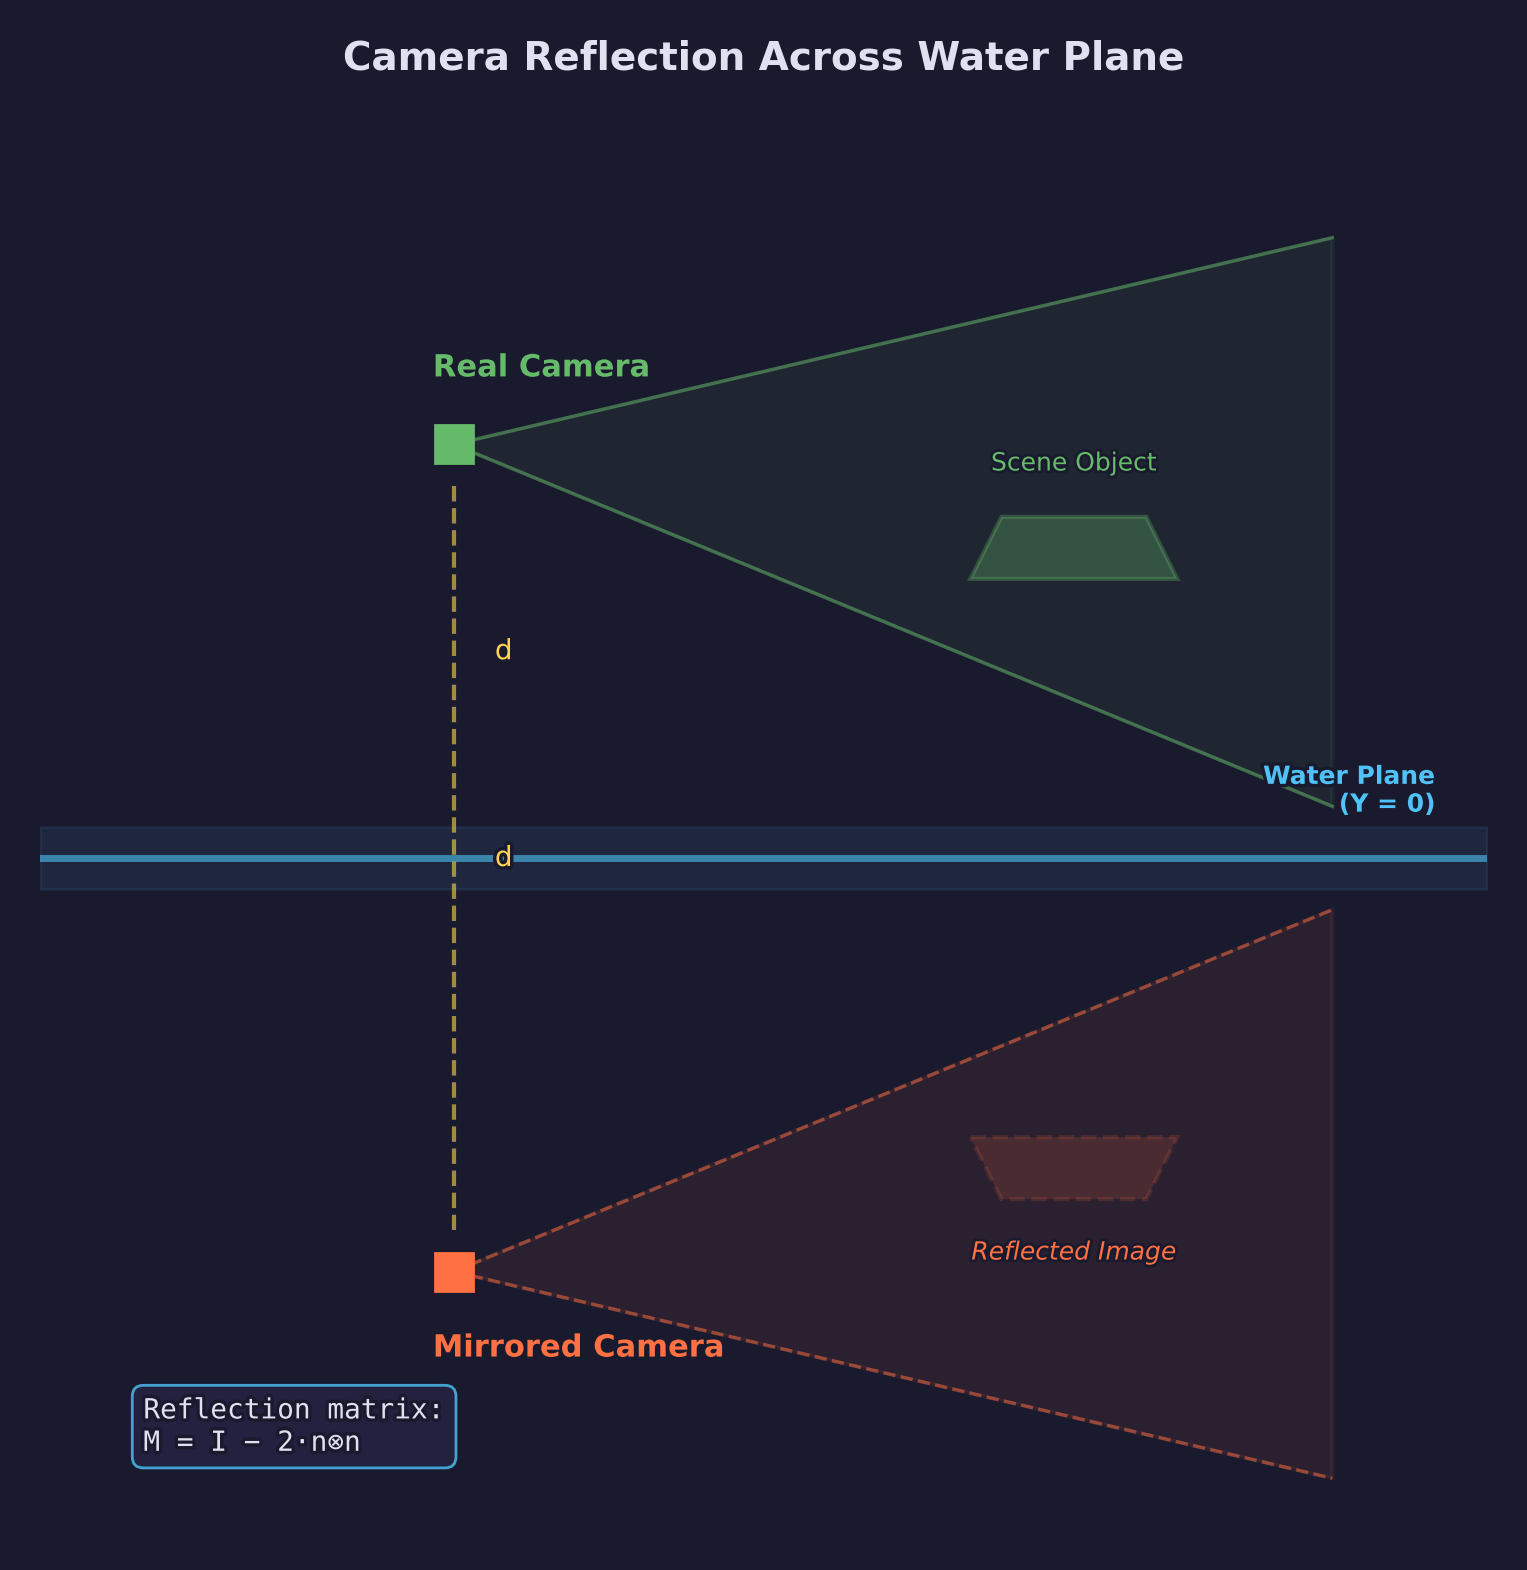
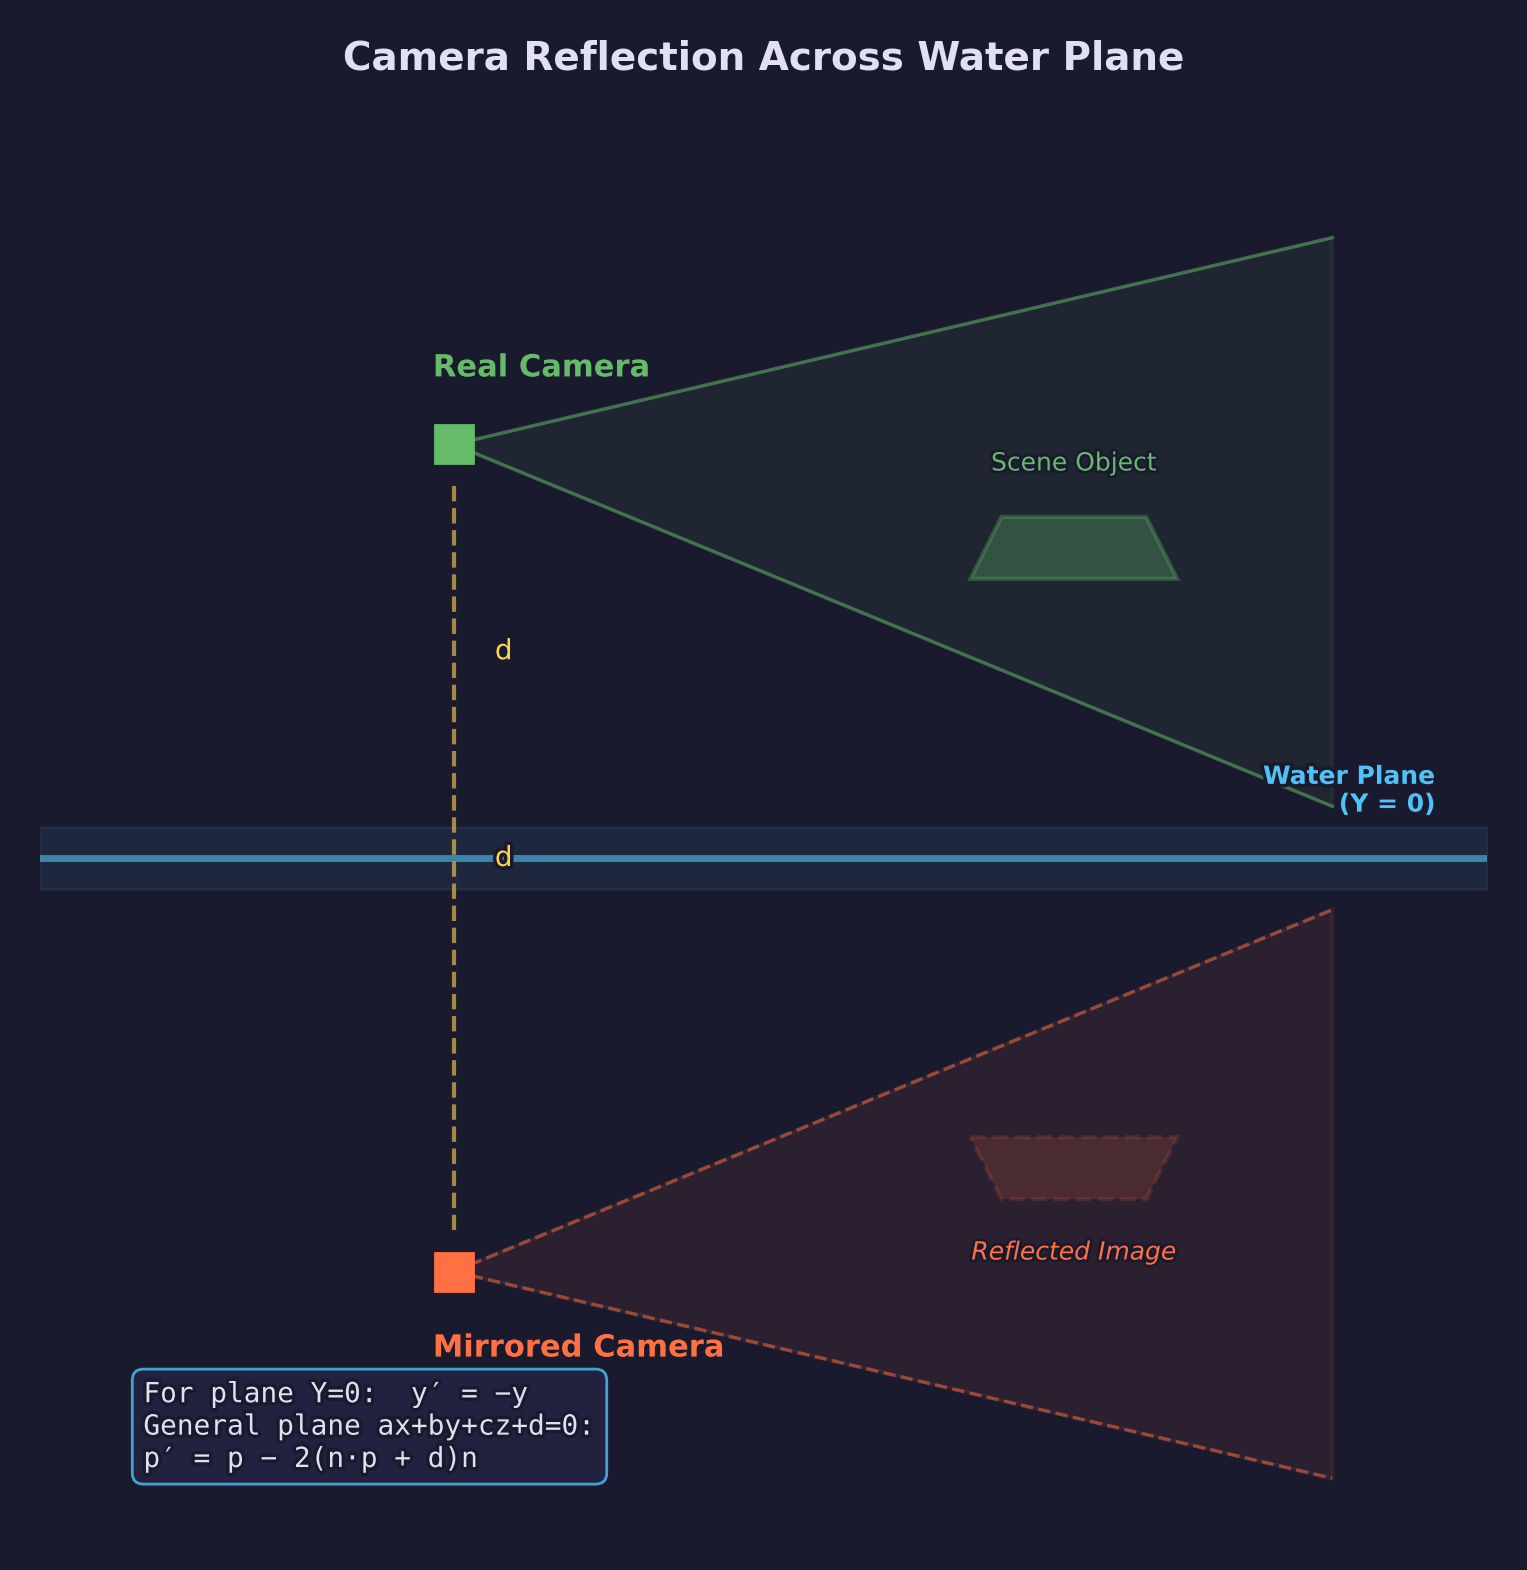
Address PR feedback: general reflection formula, arrow target, broadcast copy
- Diagram: replace origin-only reflection matrix with general plane formula
- Diagram: fix near-plane callout arrow to point at z=0 (near) not z=1 (far)
- HDR: add .copy() to np.broadcast_to for writable consistency

Changed region(s): [[0.0923, 0.8739, 0.4001, 0.9363]]

diff --git a/scripts/forge_diagrams/gpu_diagrams.py b/scripts/forge_diagrams/gpu_diagrams.py
@@ -11103,7 +11103,7 @@ def diagram_reflection_camera():
     ax.text(
         -2.0,
         -5.5,
-        "Reflection matrix:\nM = I \u2212 2\u22c5n\u2297n",
+        "For plane Y=0:  y\u2032 = \u2212y\nGeneral plane ax+by+cz+d=0:\np\u2032 = p \u2212 2(n\u22c5p + d)n",
         color=STYLE["text"],
         fontsize=10,
         fontfamily="monospace",
@@ -12130,7 +12130,7 @@ def diagram_frustum_plane_extraction():
     # Arrow from note to near plane
     ax.annotate(
         "",
-        xy=iso(0, -0.3, 1),
+        xy=iso(0, -0.3, 0),
         xytext=(3.0, -0.9),
         arrowprops={
             "arrowstyle": "->",

diff --git a/scripts/equirect_to_cubemap.py b/scripts/equirect_to_cubemap.py
@@ -250,7 +250,7 @@ def convert(input_path, output_dir, size, preloaded_hdr=None):
                 sys.exit("Unsupported HDR channel count: 0")
             if source.shape[2] == 1:
                 # Single channel (H, W, 1) → broadcast to (H, W, 3)
-                source = np.broadcast_to(source, (source.shape[0], source.shape[1], 3))
+                source = np.broadcast_to(source, (source.shape[0], source.shape[1], 3)).copy()
             elif source.shape[2] == 2:
                 # Two channels (H, W, 2) → take first, broadcast to (H, W, 3)
                 source = np.stack([source[:, :, 0]] * 3, axis=-1)
